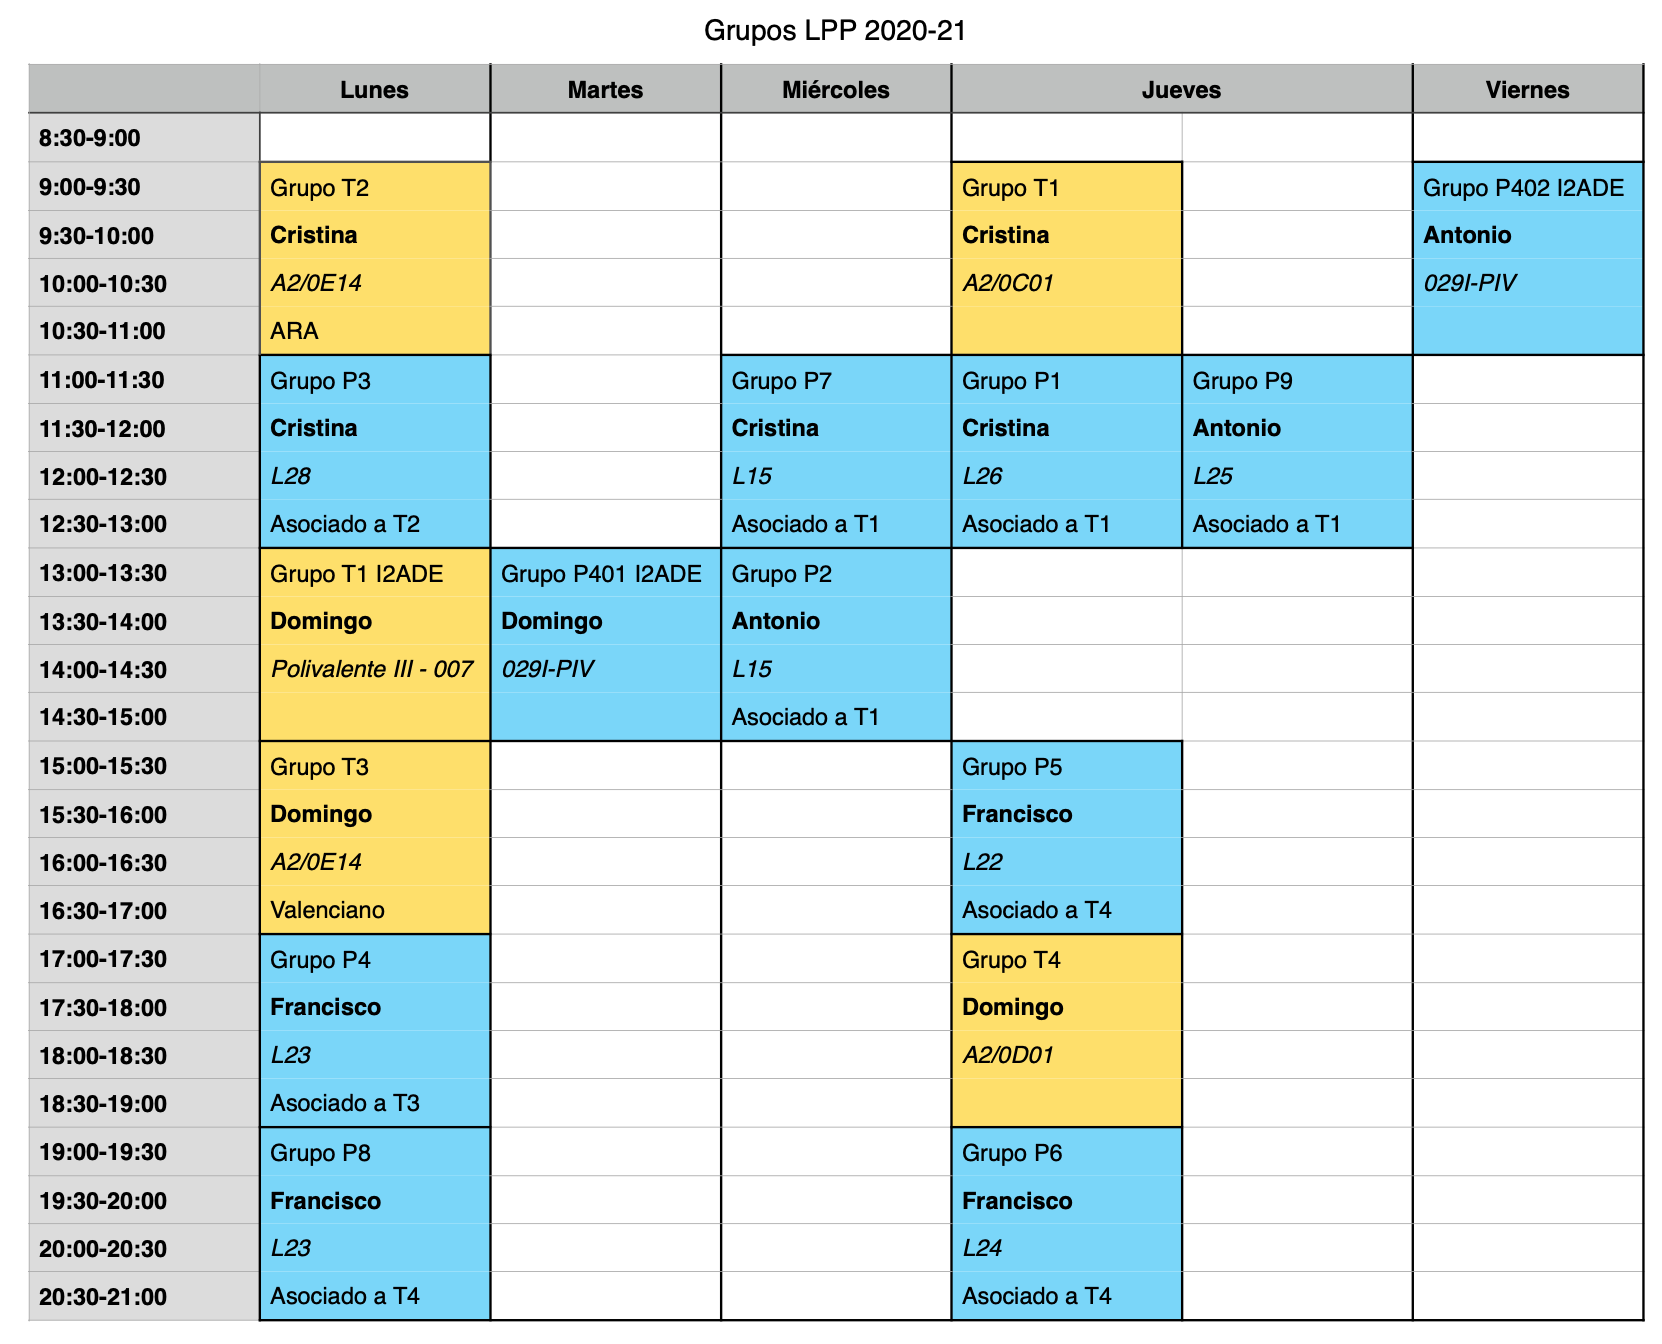
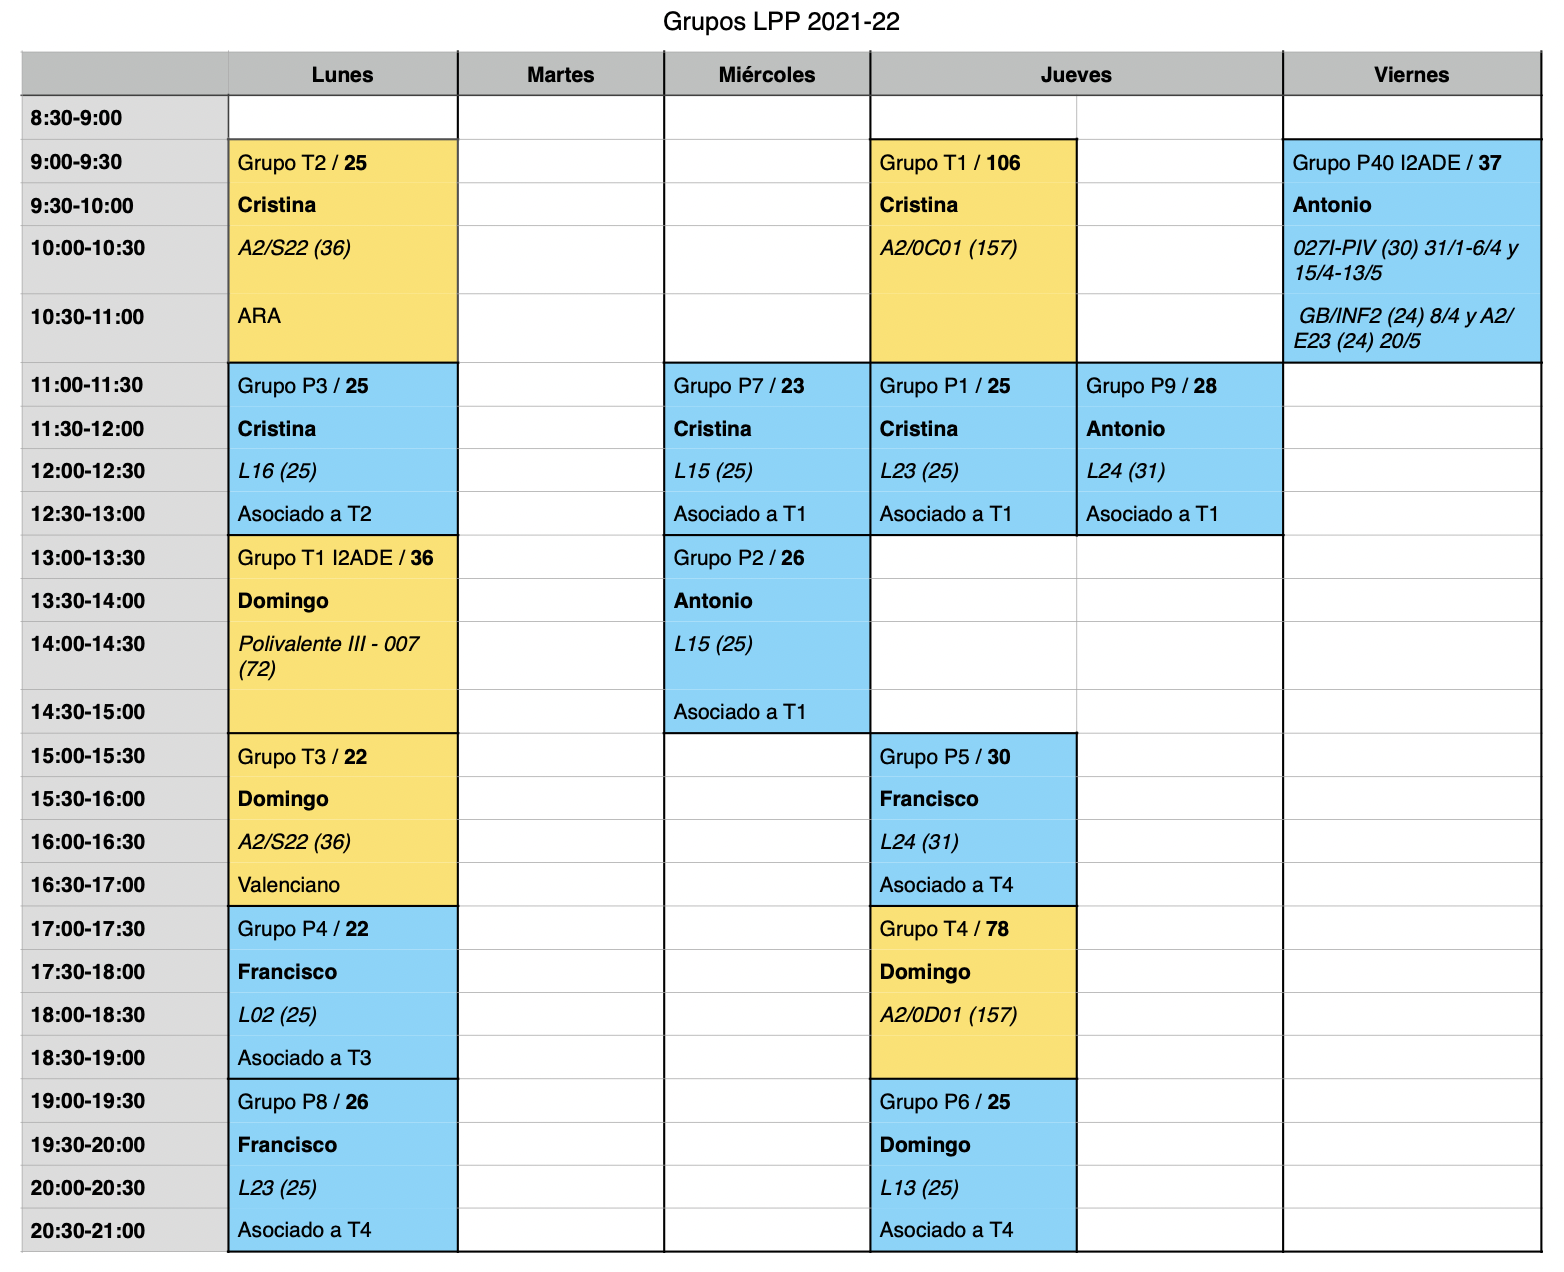
Actualizado tema 0

diff --git a/docs/teoria/tema00-descripcion-asignatura/tema00-descripcion-asignatura.md b/docs/teoria/tema00-descripcion-asignatura/tema00-descripcion-asignatura.md
@@ -9,23 +9,23 @@ prácticas de 2 h. a la semana
 **Profesores**:  
 
 * Antonio Botía ([e-mail](mailto:abotia@dccia.ua.es)): Grupos de
-  prácticas: 2, 9 y 402
+  prácticas: 2, 9 y 40
 * Domingo Gallardo ([e-mail](mailto:domingo.gallardo@ua.es)): Profesor
   coordinador de la asignatura. Grupos de teoría: 3, 4 y 40. Grupos de
-  prácticas: 401
+  prácticas: 6
 * Francisco Martínez ([e-mail](mailto:fmartine@ua.es)): Grupos de
-  prácticas: 4, 5, 6 y 8
+  prácticas: 4, 5 y 8
 * Cristina Pomares ([e-mail](mailto:cpomares@ua.es)): Grupos de
   teoría: 1 y 2. Grupos de prácticas: 1, 3 y 7.
 
 ## 2. Recursos de la asignatura
 
-* [Ficha de la asignatura](https://cvnet.cpd.ua.es/Guia-Docente/GuiaDocente/Index?wCodEst=C203&wcodasi=34017&wlengua=es&scaca=2020-21)
+* [Ficha de la asignatura](https://cvnet.cpd.ua.es/Guia-Docente/GuiaDocente/Index?wCodEst=C203&wcodasi=34017&wlengua=es&scaca=2021-22)
 * [Apuntes de la asignatura (teoría, seminarios y prácticas)](https://domingogallardo.github.io/apuntes-lpp/)
-* [Sitio Moodle](https://moodle2020-21.ua.es/moodle/course/view.php?id=8242)
+* [Sitio Moodle](https://moodle2021-22.ua.es/moodle/course/view.php?id=1505)
   abierto y accesible a toda la comunidad educativa, contiene los
   apuntes, transparencias, prácticas y otros materiales docentes
-* [Foro de consultas y anuncios](https://moodle2020-21.ua.es/moodle/mod/forum/view.php?id=80350)
+* [Foro de consultas y anuncios](https://moodle2021-22.ua.es/moodle/mod/forum/view.php?id=41853)
   en el sitio Moodle (sólo accesible a estudiantes)
 
 ## 3. Objetivos y competencias
@@ -149,23 +149,20 @@ lenguajes de programación y entornos de desarrollo:
   Apple, con conceptos modernos de programación funcional y
   programación orientada a objetos)
 
-Cada práctica consistirá en la resolución de una **hoja de ejercicios**
-con 5 o 6 pequeños problemas de programación relacionados con la
-teoría vista durante la semana.
+Cada semana tendrás que realizar una **hoja de ejercicios** en la que
+se incluirá un repaso de la teoría vista la semana anterior y 5 o 6
+pequeños problemas de programación relacionados con esa teoría.
 
-Se realizarán 12 sesiones de ejercicios de prácticas de una semana de
-duración y 2 seminarios sobre los anteriores lenguajes de programación.
+La hoja de ejercicios estará disponible al comienzo de la semana y
+tendrás toda la semana para su realización. Una vez terminada la
+semana se publicará una solución de los ejercicios propuestos que
+deberás comparar con tus soluciones.
 
-La hoja de ejercicios estará disponible al comienzo de la semana y se
-dispondrá de toda la semana siguiente para su realización y su entrega
-en Moodle. La entrega se cerrará el último día de la semana. Al día
-siguiente se publicará la solución.
-
-En la clase de prácticas resolverán dudas sobre la solución de
+En la clase de prácticas se resolverán dudas sobre la solución de
 la práctica anterior y se trabajará en la hoja de ejercicios publicada
 esa semana. Durante la sesión de prácticas el profesor estará
 disponible para resolver dudas y dar pistas sobre cómo atacar los
-problemas. 
+problemas.
 
 También durante la semana se podrán consultar las dudas que
 puedan surgir en el foro de la asignatura (en Moodle) y con tutorías a
@@ -183,20 +180,12 @@ considere oportuno.
 
 ## 6. Horarios
 
-La distribución de grupos del curso 2020-21 es la siguiente:
+La distribución de grupos del curso 2021-22 es la siguiente:
 
 <img src="imagenes/horario.png" width="800px"/>
 
 En los turnos de teoría es posible, de forma excepcional, asistir a un
-grupo distinto del asignado. Los enlaces a las aulas online en las que se impartirán las clases son los
-siguientes:
-
-- [Grupo 1](https://cvnet.cpd.ua.es/Docenciadual/AulaVirtual?eje=382&vac=113472&gac=331683&ts=1611139908) (jueves de 9:00 a 11:00 h.)
-- [Grupo 2](https://cvnet.cpd.ua.es/Docenciadual/AulaVirtual?eje=382&vac=113472&gac=331684&ts=1611139908) (lunes de 9:00 a 11:00 h.)
-- [Grupo 3](https://cvnet.cpd.ua.es/Docenciadual/AulaVirtual?eje=382&vac=113472&gac=331685&ts=1611141615) (lunes de 15:00 a 17:00 h.)
-- [Grupo 4](https://cvnet.cpd.ua.es/Docenciadual/AulaVirtual?eje=382&vac=113472&gac=331686&ts=1611141615) (jueves de 17:00 a 19:00 h.)
-- [Grupo I2ADE](https://cvnet.cpd.ua.es/Docenciadual/AulaVirtual?eje=382&vac=113472&gac=1221840&ts=1611141615)
-  (lunes de 13:00 a 15:00 h.)
+grupo distinto del asignado.
 
 En los turnos de prácticas se debe asistir al grupo al que se ha
 asignado. El cambio de turno deberá solicitarse en la Secretaría de la EPS.
